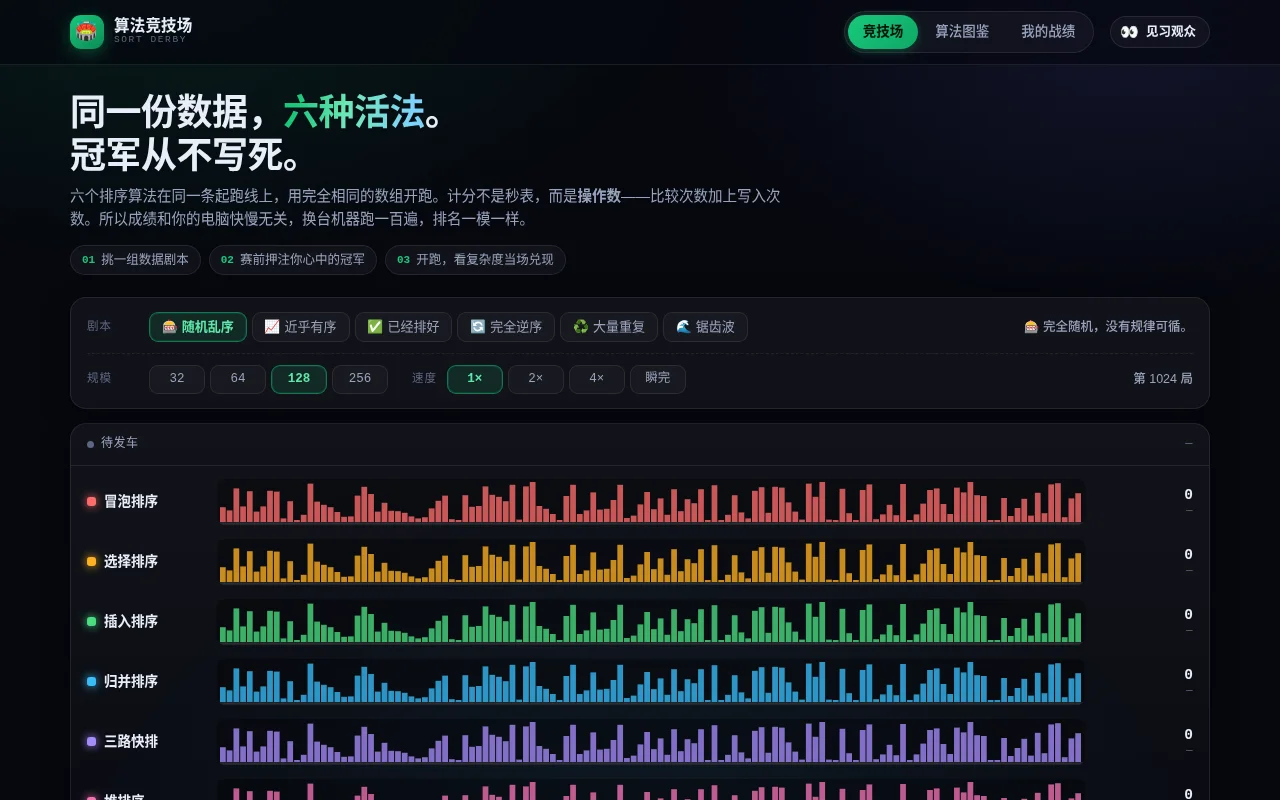
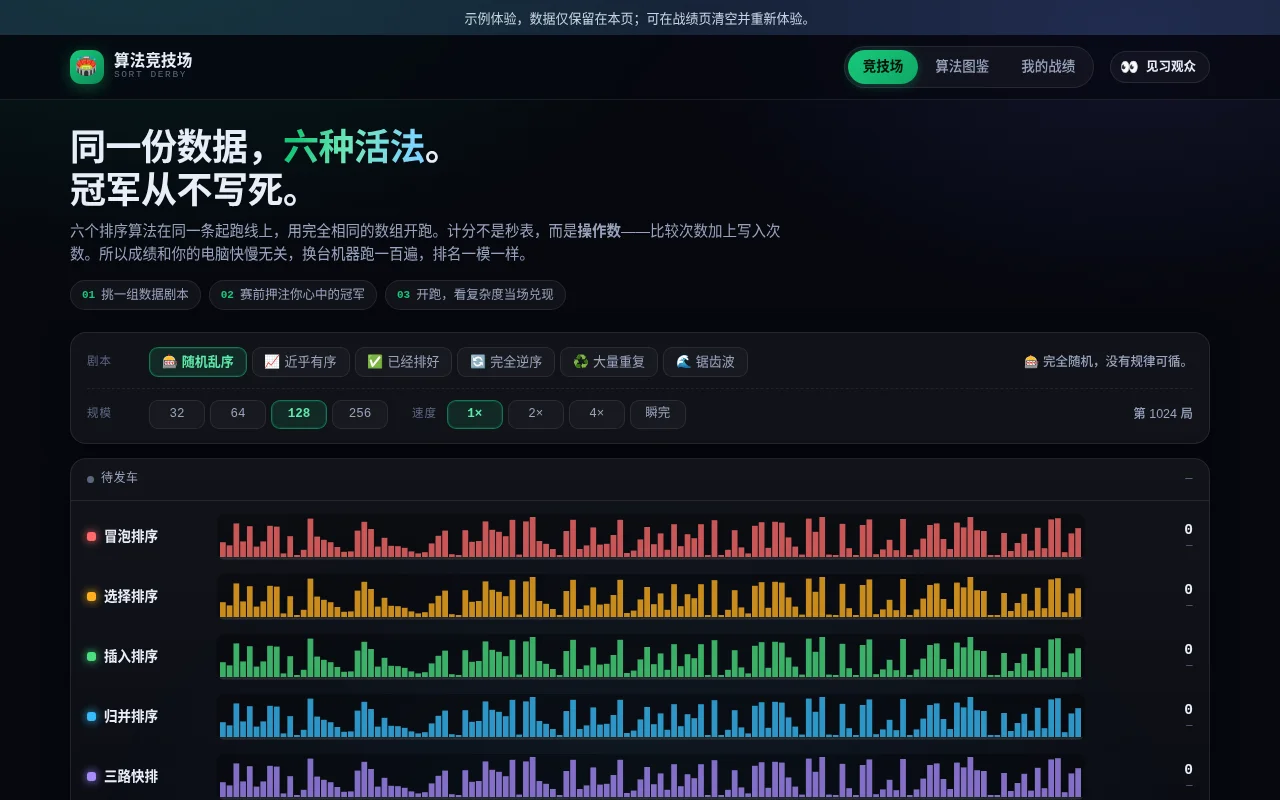
Complete algorithm arena preview

diff --git a/wb1024-c559-82b180db/showcase/preview.html b/wb1024-c559-82b180db/showcase/preview.html
@@ -492,7 +492,7 @@ footer b{color:var(--ink2); font-weight:600}
 }
 </style>
 </head>
-<body>
+<body><div style="padding:8px;text-align:center;background:#162338;color:#cbd5e1;font:13px sans-serif">示例体验，数据仅保留在本页；可在战绩页清空并重新体验。</div>
 <div class="wrap">
 
   <div class="topbar">
@@ -1118,7 +1118,7 @@ footer b{color:var(--ink2); font-weight:600}
 
   function loadStats() {
     try {
-      var raw = localStorage.getItem(SKEY);
+      var raw = null;
       if (!raw) return null;
       var o = JSON.parse(raw);
       if (!o || typeof o !== 'object') return null;
@@ -1137,7 +1137,7 @@ footer b{color:var(--ink2); font-weight:600}
   }
 
   function saveStats(st) {
-    try { localStorage.setItem(SKEY, JSON.stringify(st)); } catch (e) { /* 隐私模式下静默失败 */ }
+    /* 预览状态仅在页面内保留。 */
   }
 
   var stats = loadStats() || {
@@ -2033,7 +2033,7 @@ footer b{color:var(--ink2); font-weight:600}
     startRace(true);
   };
   $('resetBtn').onclick = function () {
-    if (!confirm('确定要清空所有战绩吗？此操作不可撤销。')) return;
+
     stats = { games: 0, wins: 0, streak: 0, bestStreak: 0, score: 0, algoWins: ALGOS.map(function () { return 0; }), history: [] };
     saveStats(stats);
     refreshRankChip();
